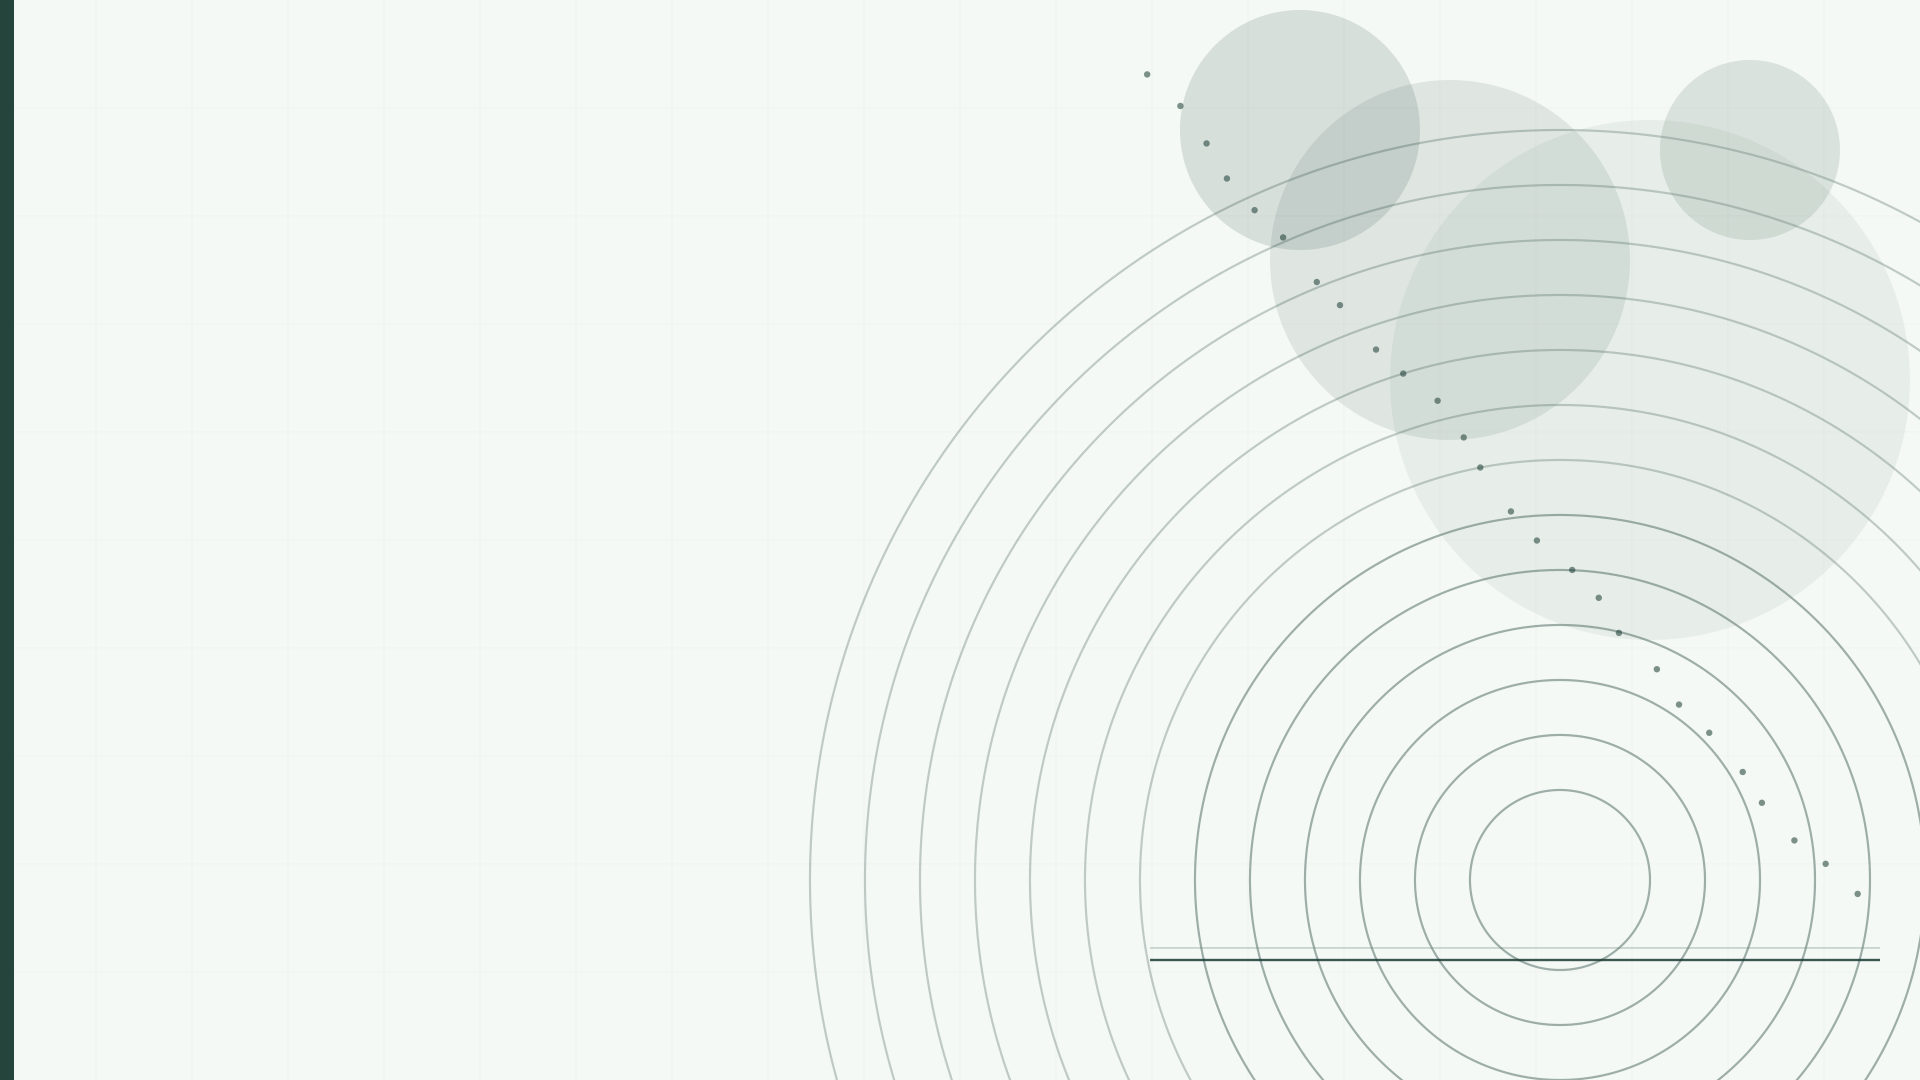
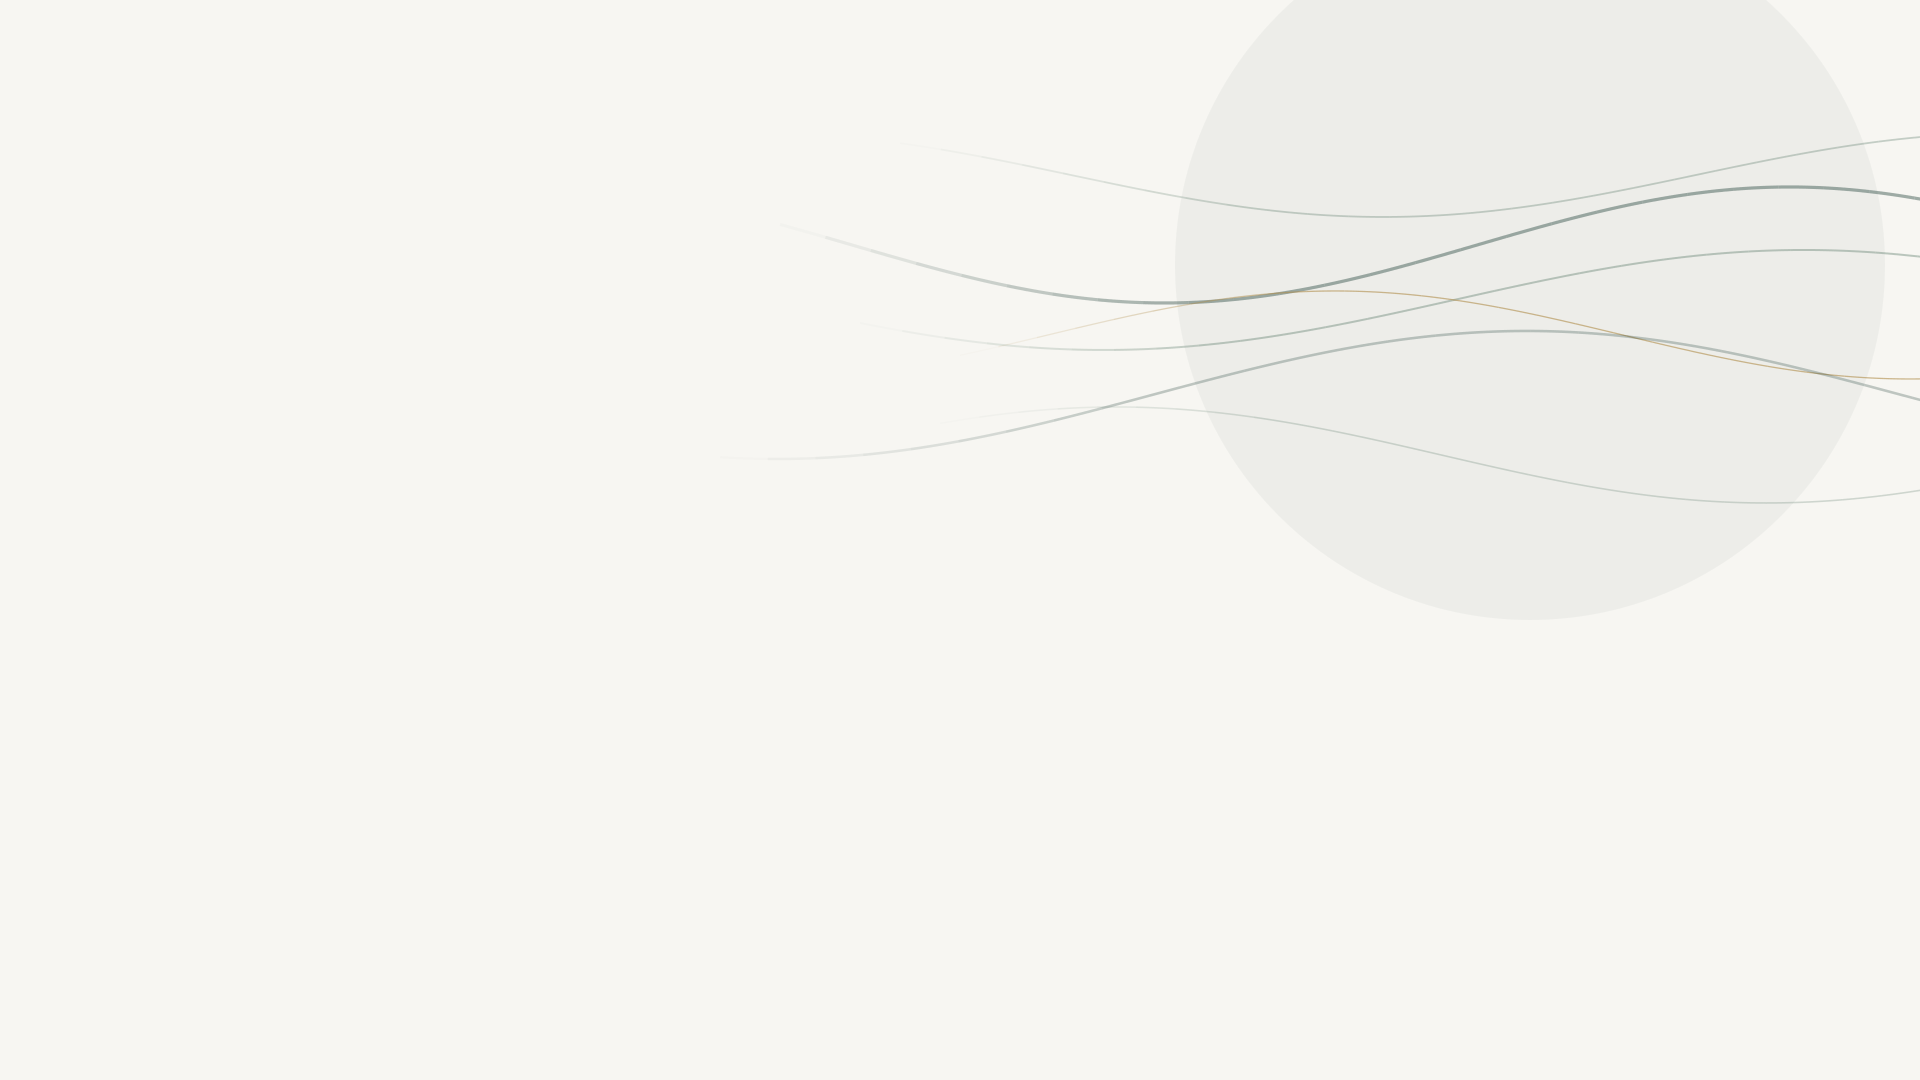
Emerald: editorial redesign (display serif, flowing-curve motif, full-bleed ghost-numeral part pages)
Second design pass giving emerald a literary identity distinct from the other
packs: low-left anchored 30pt EB Garamond display title over a new bezier
flowing-curves background on warm ivory, letterspaced small-caps byline,
oversized serif frame titles with an emerald italic section eyebrow and no
chrome, full-bleed emerald part pages with a 140pt ghost italic numeral and a
muted-gold kicker, en-dash lists, small-caps table headers, hairline chart
axes with gold as the fixed second series. Chinese metadata gets fake-slant
and small-caps fallbacks so zh decks stay warning-free. Wave-1 correctness
preserved; all variants compile with zero overfull boxes.

diff --git a/templates/emerald/main.tex b/templates/emerald/main.tex
@@ -45,26 +45,13 @@
 % -----------------------------------------------------------------------------
 % 1.1 Title page
 % -----------------------------------------------------------------------------
-% The theme prints "section number + section name" under every frame title
-% automatically (guarded inside collegebeamer.sty, so nothing shows before the
-% first \section). No framesubtitle overrides are needed here.
-
-% Title page: empty \subtitle{}/\author{} rows are skipped entirely, so an
-% unfilled field never leaves a blank gap between title and date.
-\makeatletter
-\setbeamertemplate{title page}{
-    \hspace{-12mm}
-    \begin{beamercolorbox}[wd=0.75\textwidth, sep=10pt, leftskip=8mm]{title}
-        {\usebeamerfont{title}\inserttitle\par}
-        \vskip4pt\textcolor{maincolor}{\rule{28mm}{1.5pt}}\par
-        \ifdefempty{\insertsubtitle}{}{%
-            \vskip6pt{\usebeamerfont{subtitle}\insertsubtitle\par}}
-        \ifdefempty{\beamer@shortauthor}{}{%
-            \vskip6pt{\usebeamerfont{author}\usebeamercolor[fg]{author}\insertauthor\par}}
-        \vskip6pt{\usebeamerfont{date}\usebeamercolor[fg]{date}\insertdate\par}
-    \end{beamercolorbox}
-}
-\makeatother
+% The theme prints "01 · Section Name" under every frame title automatically
+% (guarded inside collegebeamer.sty, so nothing shows before the first
+% \section). No framesubtitle overrides are needed here.
+%
+% The editorial title page (low-left display title, emerald rule, letterspaced
+% byline) lives in collegebeamer.sty. Empty \subtitle{}/\author{}/\institute{}
+% rows are skipped entirely, so an unfilled field never leaves a blank gap.
 
 % -----------------------------------------------------------------------------
 % 2. Metadata (LLM MUST FILL)
@@ -85,21 +72,22 @@
 
 % =============================================================================
 % FRAME 2: MANUAL TABLE OF CONTENTS
+% Editorial styling: emerald lining numbers, generous leading.
 % =============================================================================
 \begin{frame}{Outline}
 \large\datafont
 \renewcommand{\baselinestretch}{1.8}\selectfont
 % \makebox keeps a fixed number column so all titles share one left edge
 
-\makebox[2.4em][l]{01} Title of Part One
+\makebox[2.4em][l]{\textcolor{maincolor}{01}} Title of Part One
 
-\makebox[2.4em][l]{02} Title of Part Two
+\makebox[2.4em][l]{\textcolor{maincolor}{02}} Title of Part Two
 
-\makebox[2.4em][l]{03} Title of Part Three
+\makebox[2.4em][l]{\textcolor{maincolor}{03}} Title of Part Three
 
-\makebox[2.4em][l]{04} Title of Part Four
+\makebox[2.4em][l]{\textcolor{maincolor}{04}} Title of Part Four
 
-\makebox[2.4em][l]{05} Summary \& Q\&A
+\makebox[2.4em][l]{\textcolor{maincolor}{05}} Summary \& Q\&A
 \end{frame}
 
 % =============================================================================
@@ -111,22 +99,11 @@
 
 % =============================================================================
 % FRAME 3: SECTION TRANSITION (EXAMPLE: SECTION 1)
-% LLM MUST generate one such page before EACH section
+% LLM MUST insert \sectionframe right after EACH \section{...} line.
+% It renders the full-bleed emerald transition page (ghost numeral + white
+% italic section name) automatically from the current section.
 % =============================================================================
-\begin{frame}{Outline}
-\large\datafont
-\renewcommand{\baselinestretch}{1.8}\selectfont
-
-\textbf{\textcolor{maincolor}{\makebox[2.4em][l]{01} Title of Part One}}
-
-\makebox[2.4em][l]{02} Title of Part Two
-
-\makebox[2.4em][l]{03} Title of Part Three
-
-\makebox[2.4em][l]{04} Title of Part Four
-
-\makebox[2.4em][l]{05} Summary \& Q\&A
-\end{frame}
+\sectionframe
 
 % =============================================================================
 % CONTENT FRAME TEMPLATE (LLM MUST USE THIS STRUCTURE)
@@ -165,12 +142,13 @@ State the central message of this slide in one sentence.
     ylabel={Sample index},
     tick label style={font=\tiny\datafont},
     label style={font=\scriptsize},
-    axis line style={maincolor!50},
-    tick style={maincolor!50},
+    % hairline-weight axes: part of the editorial identity
+    axis line style={line width=0.3pt, maincolor!45},
+    tick style={line width=0.3pt, maincolor!45},
     grid=major,
-    grid style={maincolor!12},
+    grid style={line width=0.25pt, maincolor!12},
 ]
-\addplot[fill=maincolor!40, draw=maincolor] coordinates {
+\addplot[fill=maincolor!45, draw=maincolor] coordinates {
     (Q1,42) (Q2,55) (Q3,61) (Q4,78)
 };
 \end{axis}
@@ -207,9 +185,10 @@ Keep the text concise so the wide chart remains readable.
     legend style={at={(0.02,0.98)}, anchor=north west, font=\tiny, draw=none, fill=none},
     yticklabel style={font=\tiny\datafont},
     grid=major,
-    grid style={maincolor!12},
-    axis line style={maincolor!50},
-    tick style={maincolor!50},
+    grid style={line width=0.25pt, maincolor!12},
+    % hairline-weight axes: part of the editorial identity
+    axis line style={line width=0.3pt, maincolor!45},
+    tick style={line width=0.3pt, maincolor!45},
 ]
 \addplot[
     thick,
@@ -220,12 +199,13 @@ Keep the text concise so the wide chart remains readable.
     (Jan,2040) (Feb,2085) (Mar,2160) (Apr,2330) (May,2345) (Jun,2320)
     (Jul,2420) (Aug,2505) (Sep,2630) (Oct,2740) (Nov,2655) (Dec,2620)
 };
+% second series ALWAYS takes the muted gold accent (airforceblue), never a
+% second shade of emerald
 \addplot[
-    thick,
-    dashed,
-    maincolor!55,
+    semithick,
+    airforceblue,
     mark=square*,
-    mark options={fill=white, draw=maincolor!55, scale=0.55},
+    mark options={fill=white, draw=airforceblue, scale=0.55},
 ] coordinates {
     (Jan,2010) (Feb,2050) (Mar,2120) (Apr,2280) (May,2300) (Jun,2290)
     (Jul,2380) (Aug,2460) (Sep,2580) (Oct,2700) (Nov,2620) (Dec,2590)
@@ -307,17 +287,16 @@ Keep the text concise so the wide chart remains readable.
 \begin{frame}{[STYLE REF] Table Style Example}
 \small
 \centering
-\renewcommand{\arraystretch}{1.15}
+% EDITORIAL tables: booktabs rules only, NO zebra striping / cell fills.
+% Header row in small caps (\textsc), generous row height, lining figures.
+\renewcommand{\arraystretch}{1.3}
 \footnotesize
 \datafont % lining tabular figures: numerals align and sit on the baseline
-% \multirow only in the (uncolored) header rows -- never inside zebra-striped
-% body rows, where the row color of the next row would paint over the text.
-\rowcolors{3}{maincolor!10}{white}
 \begin{tabular}{l c c l}
 \toprule
-\multirow{2}{*}{Metric} & \multicolumn{2}{c}{Phase} & \multirow{2}{*}{Conclusion} \\
+\multirow{2}{*}{\textsc{Metric}} & \multicolumn{2}{c}{\textsc{Phase}} & \multirow{2}{*}{\textsc{Conclusion}} \\
 \cmidrule(lr){2-3}
- & A & B & \\
+ & \textsc{a} & \textsc{b} & \\
 \midrule
 Throughput (req/s) & 120 & 158 & Room for improvement \\
 Latency (ms) & 340 & 210 & \textcolor{maincolor}{\ding{51}} improved \\
@@ -389,19 +368,25 @@ minimum height=0.95cm,text width=1.9cm,align=center}
 % AI INSTRUCTION PAGE (DELETE IN FINAL OUTPUT)
 % =============================================================================
 \begin{frame}{AI GENERATION INSTRUCTIONS}
+\footnotesize
 You MUST:
 \begin{itemize}
-\item Delete all [STYLE REF] frames and this instruction frame
-\item Replace all placeholders with real content
-\item Insert a highlighted TOC transition page before each section
-\item Define \texttt{\textbackslash section\{...\}} before the first frame of that section
+\item Delete all [STYLE REF] frames and this instruction frame; replace all
+      placeholders with real content
+\item Define \texttt{\textbackslash section\{...\}} before the first frame of its
+      section and put \texttt{\textbackslash sectionframe} on the next line --
+      it draws the full-bleed emerald transition page automatically
 \item Use columns for side-by-side text+figure pages; switch to the full-width
       Example-2 layout whenever a chart has more than about 6 categories
+\item Charts: hairline axes as in the examples; a second data series ALWAYS
+      uses the muted gold accent (\texttt{airforceblue}), never a second green
+\item Tables: booktabs rules only, no cell fills; header cells in
+      \texttt{\textbackslash textsc\{...\}} small caps; use
+      \texttt{\textbackslash datafont} for numerals in charts and tables
 \item Page budget: 12--18 slides total, of which AT MOST 10 are content slides
       (title page, TOC, section transitions and the Q\&A page are not counted)
 \item Keep information density high (no empty slides); fill both columns of any
       two-column page to comparable depth
-\item Use \texttt{\textbackslash datafont} for numerals in charts and tables
 \item Output FULL LaTeX code only
 \end{itemize}
 \end{frame}
